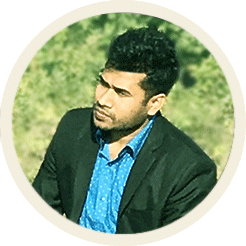
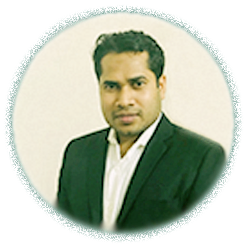
updated content and image

diff --git a/resources/views/sections/abilities.blade.php b/resources/views/sections/abilities.blade.php
@@ -124,7 +124,7 @@
 
 
 <div class="text-center project-referal">
-	<p>This project is build on a Laravel PHP framework.</p>
+	<p>This interactive resume is build on a Laravel PHP framework.</p>
 	<a href="https://github.com/vorsurm" class="btn btn-primary" target="_blank">See project on Github</a>
 </div>
 <hr />
